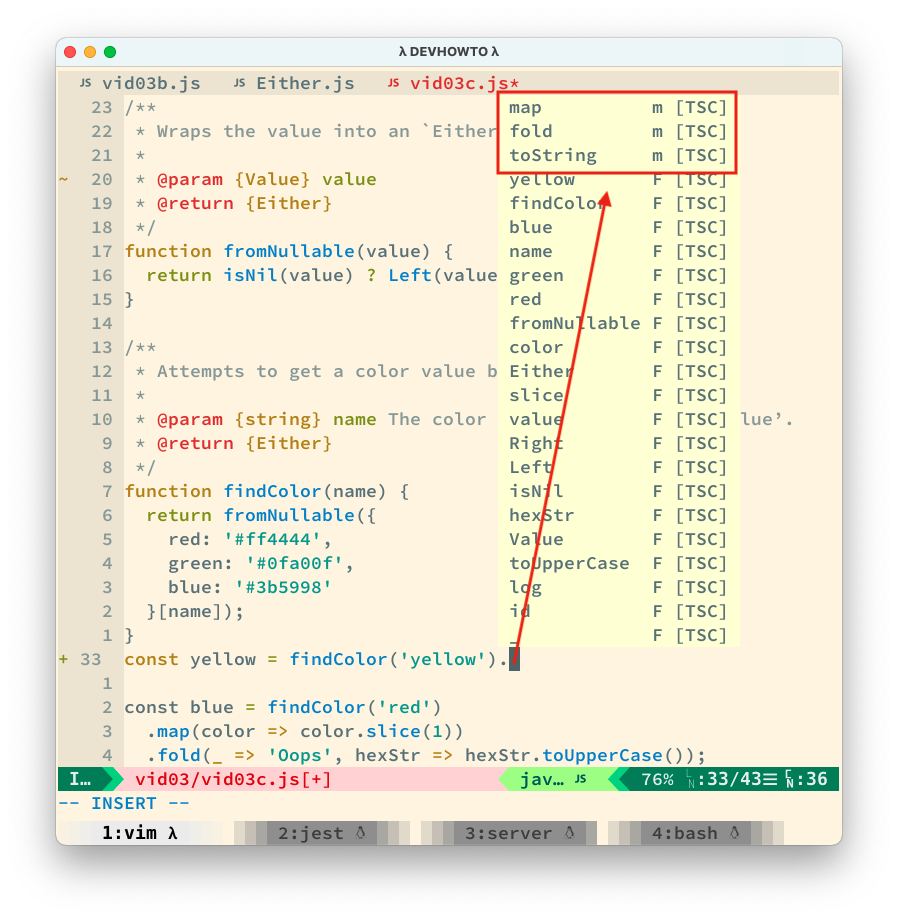
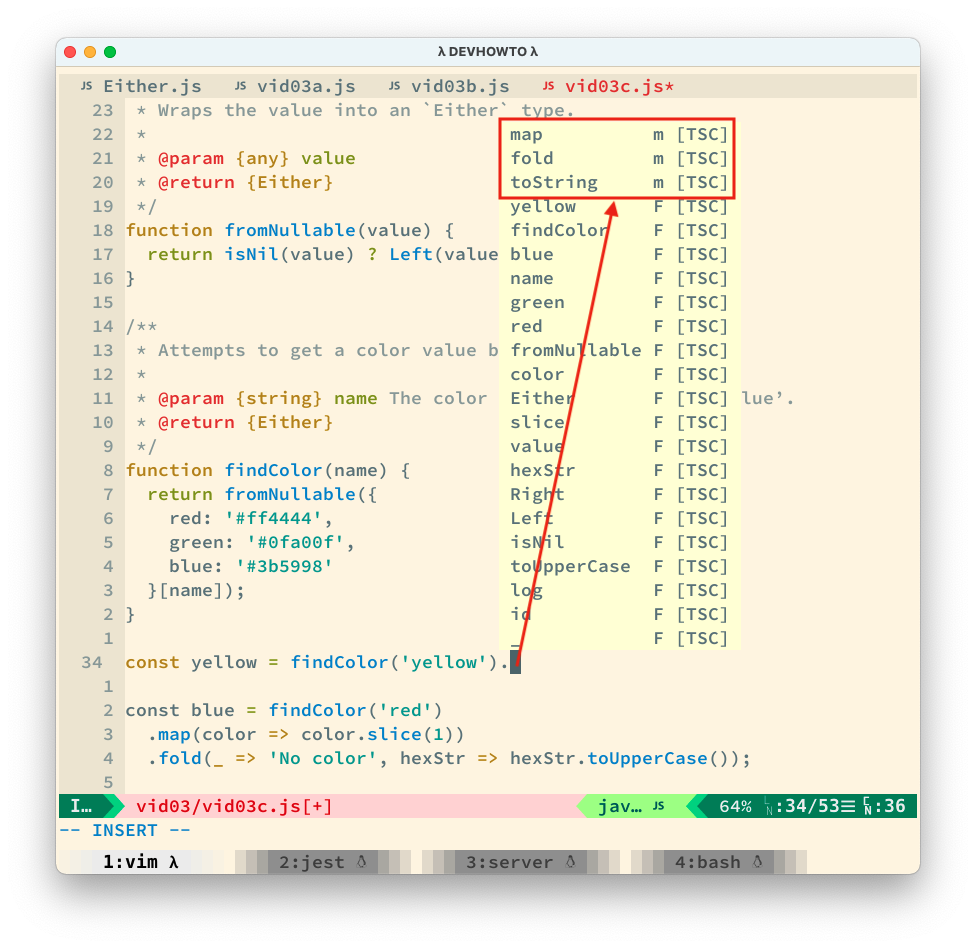
compfpjs: Update vid03 notes and examples

Changed region(s): [[0.0312, 0.0305, 0.9666, 0.9445], [0.3742, 0.1828, 0.4053, 0.2133]]

diff --git a/src/composable-fp-js/vid03/vid03c.js b/src/composable-fp-js/vid03/vid03c.js
@@ -1,7 +1,6 @@
 /// <reference path="./typedefs.js" />
 
 import {
-  id,
   isNil,
   log,
 } from '../lib/lib.js';

diff --git a/docs/composable-fp-js/vid03.rst b/docs/composable-fp-js/vid03.rst
@@ -209,3 +209,49 @@ appropriately.
 .. literalinclude:: /../src/composable-fp-js/vid03/vid03c.js
    :language: javascript
 
+
+Final Thoughts
+~~~~~~~~~~~~~~
+
+It is important to keep in mind that we are now branching out based on
+whether we have a value or not. Not having a value means ``undefined``
+or ``null`` as per our current implementation. Our ``fromNullable()``
+function branches to ``Left()`` in those two cases. Beware: we are not
+totally and magically free from problems. We just know that we have a
+value or not, but we don't know the type of that value.
+
+.. code-block:: javascript
+
+   function getId(user) {
+     return fromNullable(user.id);
+   }
+
+   log(
+     getId({ id: 103 })
+     .map(i => i.split(''))
+     .fold(_ => 'Oops', i => i),
+   );
+
+The code above results in an exception:
+
+.. code-block:: text
+
+   TypeError: i.split is not a function
+
+Our ``map()`` is the implementation from ``Right()``, which does apply
+its callback function to the value. But the value here is a number,
+and ``Number.prototype`` does not have a ``split()`` method. **We
+still have the responsibility of applying proper functions depending
+on the type of values we are dealing with**. So, for example, perhaps
+in the example above, we could try to make sure we have a string by
+first mapping ``String`` and then doing the splitting:
+
+.. code-block:: javascript
+
+   log(
+     getId({ id: 103 })
+     .map(String)
+     .fold(_ => 'Oops', i => i.split('')),
+   );
+   // → [ '1', '0', '3' ]
+
